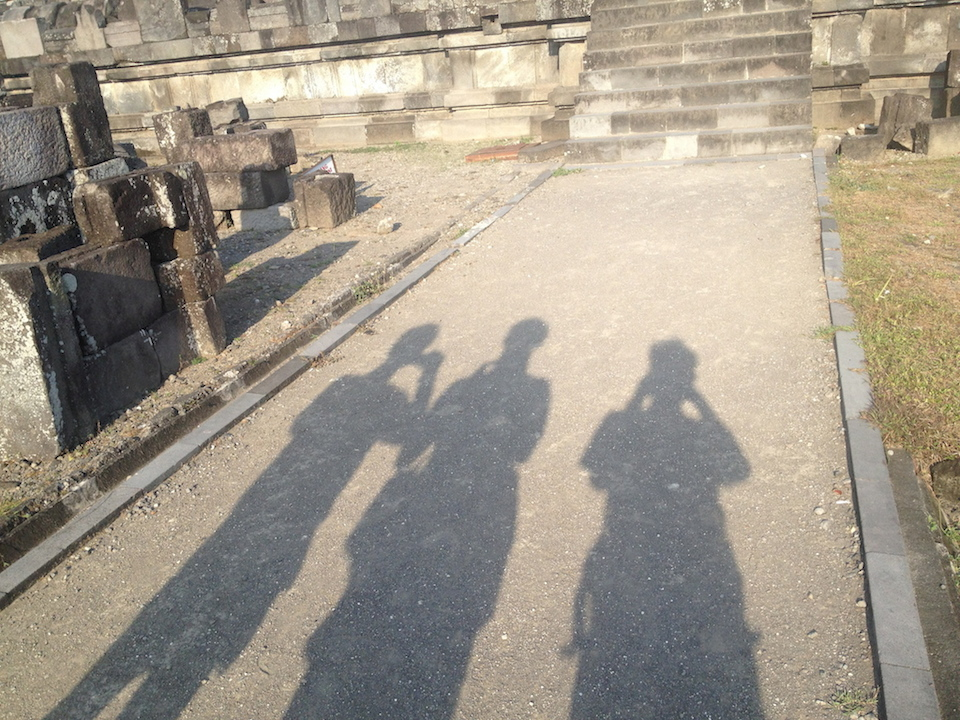
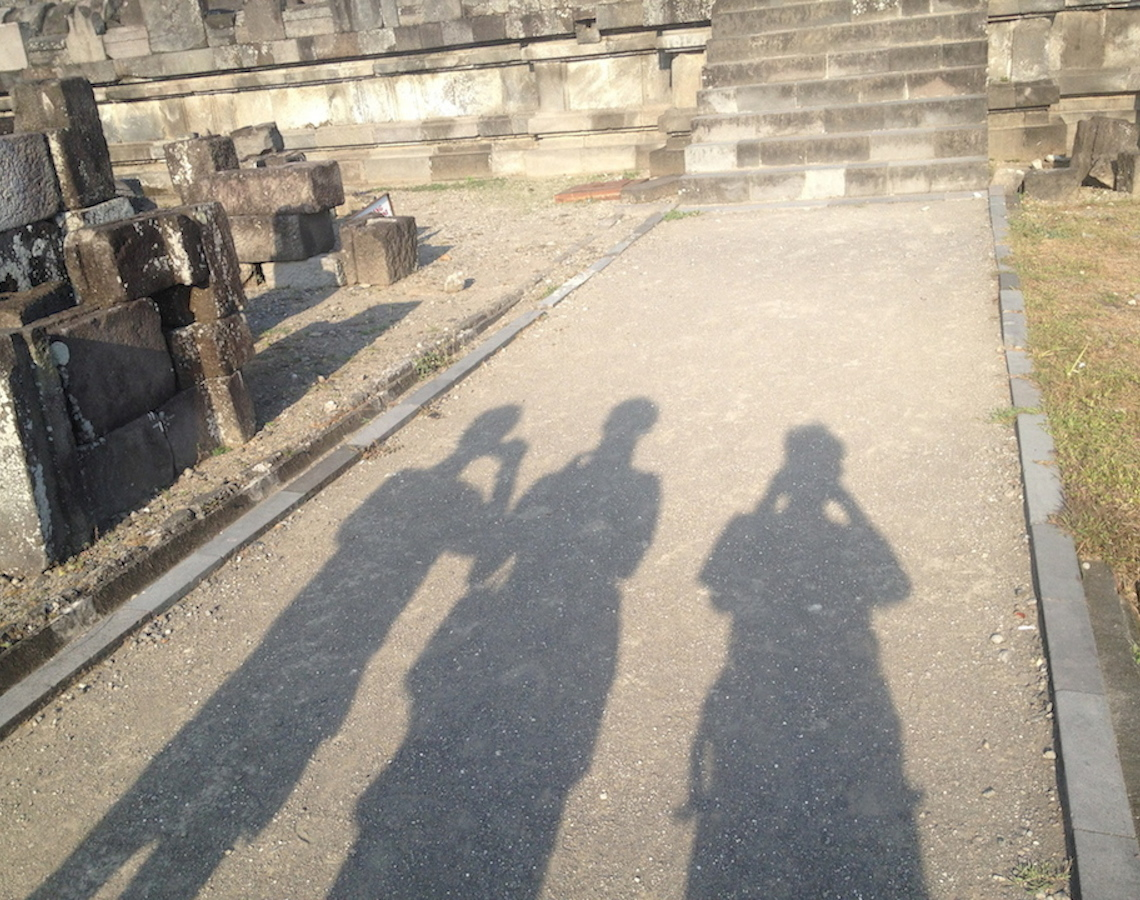
Larger page cover & better breakpoint

diff --git a/css/screen.css b/css/screen.css
@@ -1989,9 +1989,9 @@ body.logged-in #respond .submit-comment-avatar {
 
 /** 
  * 7.2
- * Tablet & Desktop (Above 783px)
+ * Tablet & Desktop (Above 836px)
  */
-@media all and (min-width: 783px) {
+@media all and (min-width: 836px) {
   body {
     font-size: 25px;
   }
@@ -2254,6 +2254,14 @@ body.logged-in #respond .submit-comment-avatar {
  * Phablet / Big Phones ( 501px - 679px)
  * Gallery requires specific styling for mobile view
  */
+@media all and (min-width: 600px) and (max-width: 836px) {
+  body #content,
+  body .wrap {
+    width: 580px;
+    margin-left: auto;
+    margin-right: auto;
+  }
+}
 @media all and (min-width: 501px) and (max-width: 679px) {
   .gallery .gallery-item img {
     width: 120px;

diff --git a/sass/_07_media_queries_conditionals.scss b/sass/_07_media_queries_conditionals.scss
@@ -23,9 +23,9 @@ body{
 
 /** 
  * 7.2
- * Tablet & Desktop (Above 783px)
+ * Tablet & Desktop (Above 836px)
  */
-@media all and (min-width: 783px){
+@media all and (min-width: 836px){
 	body{
 		font-size: 25px;
 
@@ -385,6 +385,17 @@ body{
  * Phablet / Big Phones ( 501px - 679px)
  * Gallery requires specific styling for mobile view
  */
+@media all and ( min-width: 600px ) and ( max-width: 836px ){
+	body{
+		#content,
+		.wrap{
+			width: 580px;
+			margin-left: auto;
+			margin-right: auto;
+		}
+	}
+}
+
 @media all and (min-width: 501px) and (max-width: 679px){
 	.gallery{
 		.gallery-item{

diff --git a/functions.php b/functions.php
@@ -48,9 +48,9 @@ class Opus{
             'uploads' => true,
             'default-image' => get_template_directory_uri() . '/images/default/three-men.jpg',
             'flex-width' => true,
-            'width' => 960,
+            'width' => 1140,
             'flex-height' => true,
-            'height' => 720
+            'height' => 900
         );
 
         add_theme_support( 'automatic-feed-links' );
